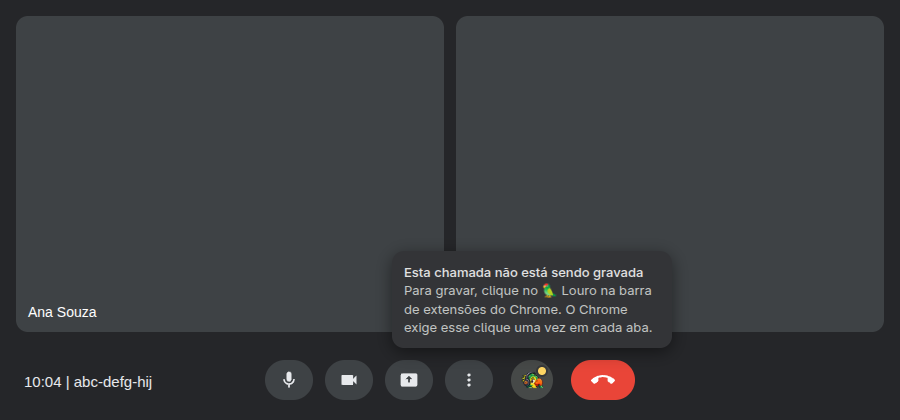
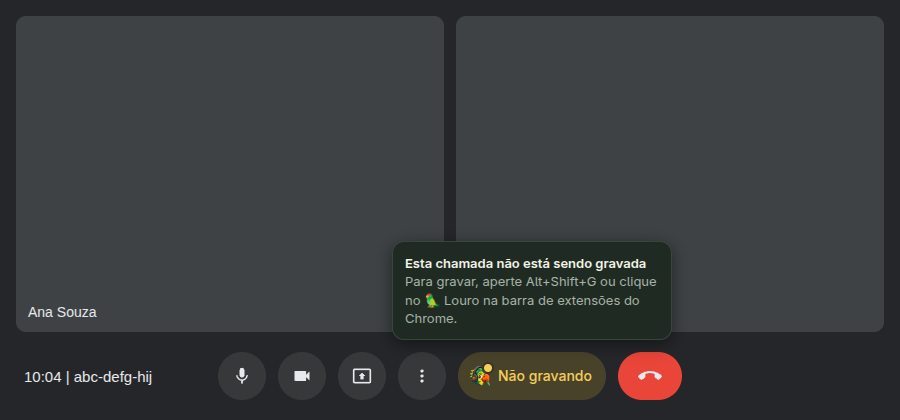
docs: bring the README and its screenshots up to date
The screenshots showed a mark button and a trechos count that are gone, and the Meet
button before it said "Não gravando". tools/screenshots.mjs now takes them from the
real extension and a made-up meeting, adding one of the side panel. The README covers
what came since: turns, the live transcript, the chat, the start shortcut, the cleanup
of Whisper's habits.

Changed region(s): [[0.4356, 0.5571, 0.7778, 0.9595], [0.2489, 0.8667, 0.4667, 0.9595], [0.0311, 0.8667, 0.1867, 0.9286]]

diff --git a/README.md b/README.md
@@ -22,7 +22,7 @@ Nobody else in the call sees a bot join. Nothing is uploaded. There is no accoun
 API key.
 
 <p align="center">
-  <img src="docs/meet-recording.png" alt="The Louro button in Google Meet's control bar, recording for 12:36, with a panel open to mark the moment or type a note" width="720">
+  <img src="docs/meet-recording.png" alt="The Louro button in Google Meet's control bar, recording for 12:36, with its note field open and a note just saved at 12:34" width="720">
 </p>
 
 ## No AI inside, on purpose
@@ -43,16 +43,25 @@ LOURO_ON_EXPORT='claude -p "Summarise $LOURO_TRANSCRIPT" > "${LOURO_TRANSCRIPT%.
 
 - **One markdown file per meeting**, named after the meeting when it was scheduled.
 - **Who said what**, read from Meet's own "is speaking" indicators, one line per turn:
-  what someone said in a row is one line, cut about every minute in a monologue. A line
-  whose speaker is unclear stays unnamed rather than getting a wrong name.
+  what someone said in a row is one line, cut about every minute in a monologue. Long
+  stretches are split on Whisper's word timings, so a quick exchange is not given to one
+  person. A line whose speaker is unclear stays unnamed rather than getting a wrong name.
+- **Live transcript.** The side panel follows the meeting as it is transcribed, turn by
+  turn, with the chat and your notes on the same timeline.
 - **Your voice too.** The tab only carries the others, so Louro mixes in your microphone,
   with an echo suppressor so you do not need headphones. Muted in Meet means not recorded.
 - **Notes.** Type a note from Meet's control bar, the popup or the side panel; it lands in
   the transcript at the minute you took it. Alt+Shift+M marks the minute without a note.
+- **The meeting chat, if you want.** Turn it on in the popup and Meet's chat messages are
+  saved with the transcript, at the minute they were sent, even with the chat closed.
 - **Fix what Whisper misheard.** Double-click a line in the side panel (or its ✎) and
   type the right words, live or after the meeting; the markdown follows your correction.
 - **Your vocabulary.** Names and jargon you list, plus the participants' names, are handed
   to Whisper so they come out spelled right.
+- **Whisper's habits, tidied.** The markdown leaves out what Whisper is known to make up:
+  words repeated across its windows, a phrase looped over unclear audio, subtitle credits
+  invented in silence. The stored transcript stays as heard, so a re-export applies
+  better rules to old meetings.
 - **Light on your machine.** With the live captions closed, transcription runs in a batch
   every five minutes at low CPU priority, so the call always comes first.
 - **No audio kept.** The recording is deleted once transcribed; only text remains.
@@ -78,15 +87,19 @@ interface):
 
 ## Transcrição
 
-[00:04] Ana Souza: Bom dia, vamos começar pelos números do mês.
-[00:41] Bruno Lima: O relatório novo ainda está atrasado.
+[00:04] Ana Souza: Bom dia, vamos começar pelos números do mês. O relatório de vendas ainda depende da integração nova. Bruno, como ficou o teste?
+[00:21] Bruno Lima: Rodei com os dados de outubro e bateu tudo, só falta o ajuste de fuso.
+[00:27] 💬 Bruno Lima: link do teste: planilha "outubro v2"
+[00:30] Você: Consigo fazer esse ajuste hoje à tarde.
 [01:02] 📌 Momento marcado
-[01:05] Ana Souza: Então a decisão é corrigir a integração antes de sexta.
+[01:05] Ana Souza: Então a decisão é publicar na sexta.
 [01:12] Combinado.
-[01:15] 📝 Nota: Bruno fica com a integração
+[01:15] 📝 Nota: publicar a integração na sexta
 ```
 
-A line without a name means someone spoke but it was not clear who.
+Each line is a turn. "Você" is you, from your microphone; 💬 is the meeting chat, 📌 and
+📝 are your marks and notes. A line without a name means someone spoke but it was not
+clear who.
 
 ## Install
 
@@ -114,7 +127,8 @@ If anything is off, `./doctor.sh` tells you what and how to fix it.
 1. In the meeting tab, click the 🦜 and **Iniciar gravação** (start recording), or press
    Alt+Shift+G. The first time, Chrome asks for your microphone.
 2. During the call, the 🦜 button in Meet's control bar shows the recording time and takes
-   notes.
+   notes. **Ver transcrição completa** opens the live transcript in Chrome's side panel;
+   double-click a line there to correct it.
 3. Click **Parar gravação** (stop). The transcript is in your folder a few seconds later.
 
 Chrome only lets an extension record a tab after you clicked it in that tab. With
@@ -122,9 +136,13 @@ Chrome only lets an extension record a tab after you clicked it in that tab. Wit
 is fine) or press Alt+Shift+G; if you forget, the button in Meet tells you.
 
 <p align="center">
-  <img src="docs/popup.png" alt="The popup while recording: elapsed time, stop, mark the moment, a note field" width="260">
+  <img src="docs/meet-not-recording.png" alt="The Louro button in Meet's control bar reading Não gravando, with a hint: press Alt+Shift+G or click the Louro icon to record" width="720">
+</p>
+
+<p align="center">
+  <img src="docs/popup.png" alt="The popup while recording: elapsed time, turns transcribed so far, stop, a note field" width="300">
   &nbsp;&nbsp;
-  <img src="docs/meet-not-recording.png" alt="The Louro button in Meet saying the call is not being recorded and where to click" width="520">
+  <img src="docs/sidepanel.png" alt="The side panel: the live transcript in turns, a corrected line marked as edited, a chat message and a note" width="300">
 </p>
 
 ## Configuration
@@ -151,7 +169,7 @@ Every option is documented in [`.env.example`](.env.example).
  Microphone ─┘                       (Chrome extension)          │
                                                                  ▼
  Meet page: who is speaking, meeting name,            local backend (FastAPI)
- participants, joined / left / muted  ──────────────►  ├─ Whisper on the newest window
+ participants, chat, joined / left / muted ─────────►  ├─ Whisper on the newest window
                                                        ├─ SQLite + live captions
                                                        └─ on stop: speakers, notes,
                                                           markdown, your command
@@ -184,8 +202,11 @@ npm run verify                      # real-browser checks (port 8877 must be fre
 
 The real-browser checks load the extension in Chromium against a throwaway backend:
 recording, microphone and echo suppression, reconnecting after a backend restart,
-following a stand-in Meet call, the popup, and reloading the extension mid-call. CI runs
-everything on every push.
+following a stand-in Meet call, reading its chat, the popup, correcting the live
+transcript, and reloading the extension mid-call. CI runs everything on every push.
+
+`node tools/screenshots.mjs` takes the screenshots above again, from the real extension
+and a made-up meeting.
 
 ```
 extension/   Chrome MV3 extension: popup, offscreen recorder, echo suppressor,
@@ -193,7 +214,7 @@ extension/   Chrome MV3 extension: popup, offscreen recorder, echo suppressor,
 backend/     FastAPI app, streaming decoder, windowed Whisper, SQLite, speakers,
              vocabulary, markdown export
 tests/       pytest suite, extension unit tests, real-browser checks
-tools/       Whisper benchmark, icon generator
+tools/       Whisper benchmark, icon generator, README screenshots
 ```
 
 ## Credits
